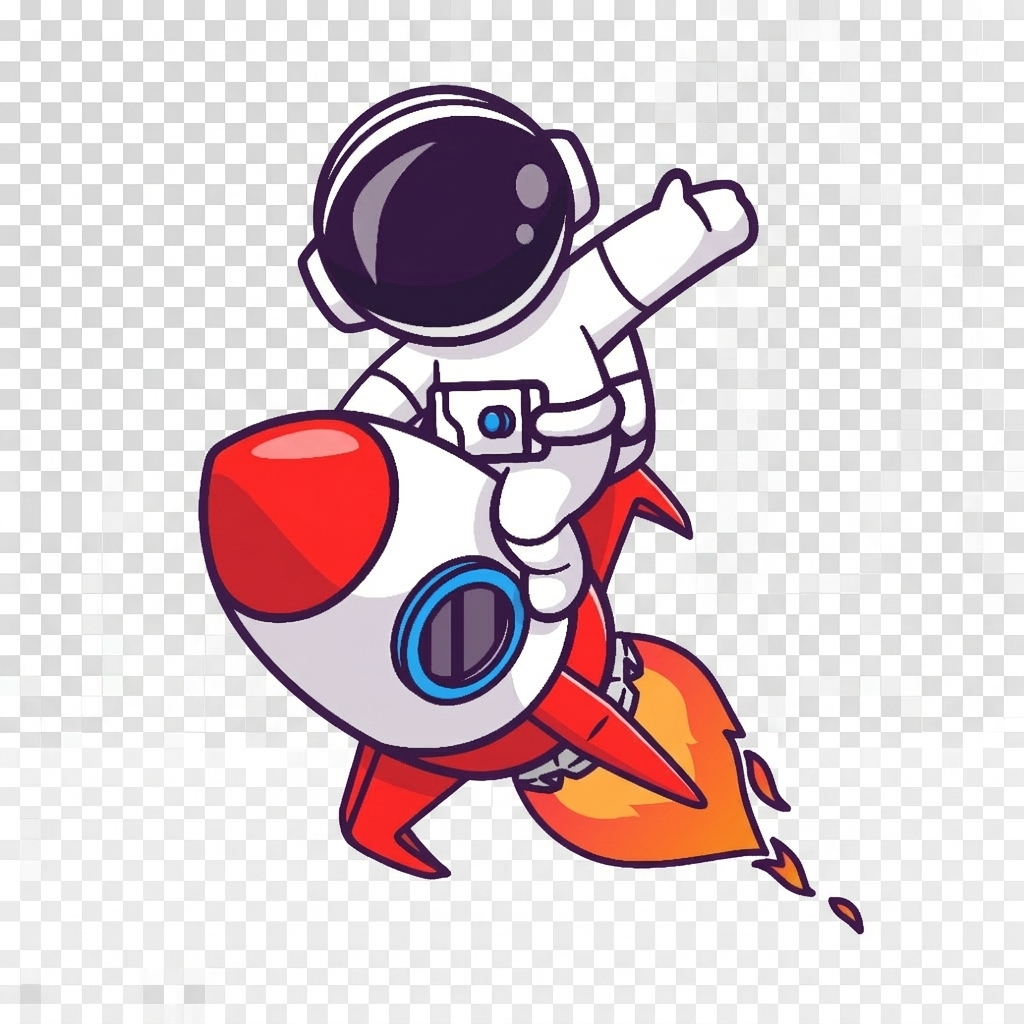
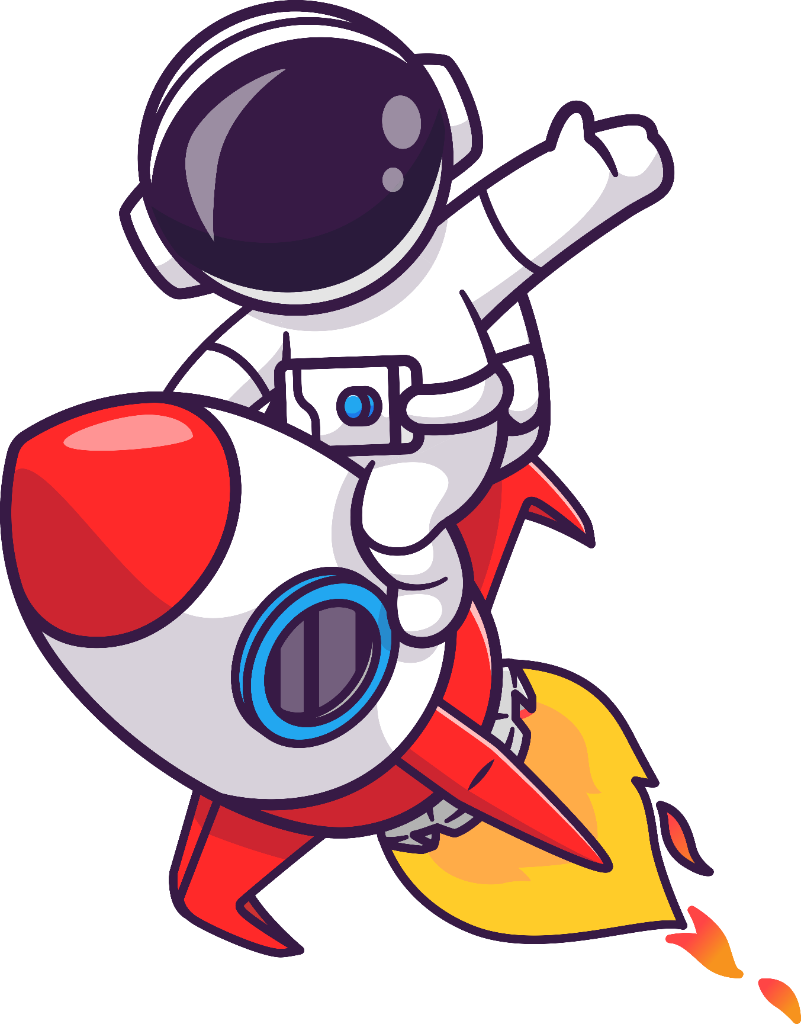
feat: update transparent rocket astronaut, add space background slider with 3 space backgrounds, increase background image brightness to 0.7

diff --git a/index.html b/index.html
@@ -228,12 +228,26 @@
 
     <main id="main-content">
         <section class="hero" id="inicio" aria-label="Inicio">
-            <!-- Background Image -->
-            <div class="hero-bg-single" aria-hidden="true">
-                <picture>
-                    <source srcset="assets/hero-space-bg.png" type="image/png">
-                    <img src="assets/hero-space-bg.png" alt="" width="1600" height="900" fetchpriority="high">
-                </picture>
+            <!-- Background Image Slider -->
+            <div class="hero-bg-slider" aria-hidden="true">
+                <div class="hero-bg-slide active">
+                    <picture>
+                        <source srcset="assets/hero-space-bg.png" type="image/png">
+                        <img src="assets/hero-space-bg.png" alt="" width="1600" height="900" fetchpriority="high">
+                    </picture>
+                </div>
+                <div class="hero-bg-slide">
+                    <picture>
+                        <source srcset="assets/hero-space-bg-2.png" type="image/png">
+                        <img src="assets/hero-space-bg-2.png" alt="" width="1600" height="900" loading="lazy">
+                    </picture>
+                </div>
+                <div class="hero-bg-slide">
+                    <picture>
+                        <source srcset="assets/hero-space-bg-3.png" type="image/png">
+                        <img src="assets/hero-space-bg-3.png" alt="" width="1600" height="900" loading="lazy">
+                    </picture>
+                </div>
             </div>
             <div class="hero-overlay" aria-hidden="true"></div>
             <canvas id="hero-particles" class="hero-particles-canvas" aria-hidden="true"></canvas>

diff --git a/main.js b/main.js
@@ -237,12 +237,44 @@
     // Run onScroll once on load to set initial states
     onScroll();
 
-
+    initBgSlider();
     initHeroParticles();
     initGaleriaAleatoria();
 
+    /* ── Hero Background Space Slider ────────────────────── */
+    function initBgSlider() {
+        var slides = document.querySelectorAll('.hero-bg-slide');
+        if (slides.length <= 1) return;
 
+        var current = 0;
+        var timer = null;
+        var interval = 6000; // 6 segundos por diapositiva
 
+        function goTo(index) {
+            slides[current].classList.remove('active');
+            current = (index + slides.length) % slides.length;
+            slides[current].classList.add('active');
+        }
+
+        function next() {
+            goTo(current + 1);
+        }
+
+        function start() {
+            if (timer) clearInterval(timer);
+            timer = setInterval(next, interval);
+        }
+
+        document.addEventListener('visibilitychange', function() {
+            if (document.hidden) {
+                if (timer) clearInterval(timer);
+            } else {
+                start();
+            }
+        });
+
+        start();
+    }
     /* ── Constellation Canvas Animation ──────────────────── */
     function initHeroParticles() {
         var canvas = document.getElementById('hero-particles');

diff --git a/style.css b/style.css
@@ -320,21 +320,35 @@ nav a:hover {
     background: var(--color-dark);
 }
 
-/* ── Hero Background Space ─────────────────────────── */
-.hero-bg-single {
+/* ── Hero Background Space Slider ────────────────── */
+.hero-bg-slider {
     position: absolute;
     inset: 0;
     z-index: 0;
     overflow: hidden;
 }
 
-.hero-bg-single img {
+.hero-bg-slide {
+    position: absolute;
+    inset: 0;
+    opacity: 0;
+    transition: opacity 1.5s ease-in-out;
+}
+
+.hero-bg-slide.active {
+    opacity: 1;
+}
+
+.hero-bg-slide img {
     width: 100%;
     height: 100%;
     object-fit: cover;
     object-position: center;
     display: block;
-    filter: brightness(0.55);
+    filter: brightness(0.7); /* 25% más visible que 0.55 */
+}
+
+.hero-bg-slide.active img {
     animation: spaceKenBurns 40s infinite alternate ease-in-out;
 }
 
